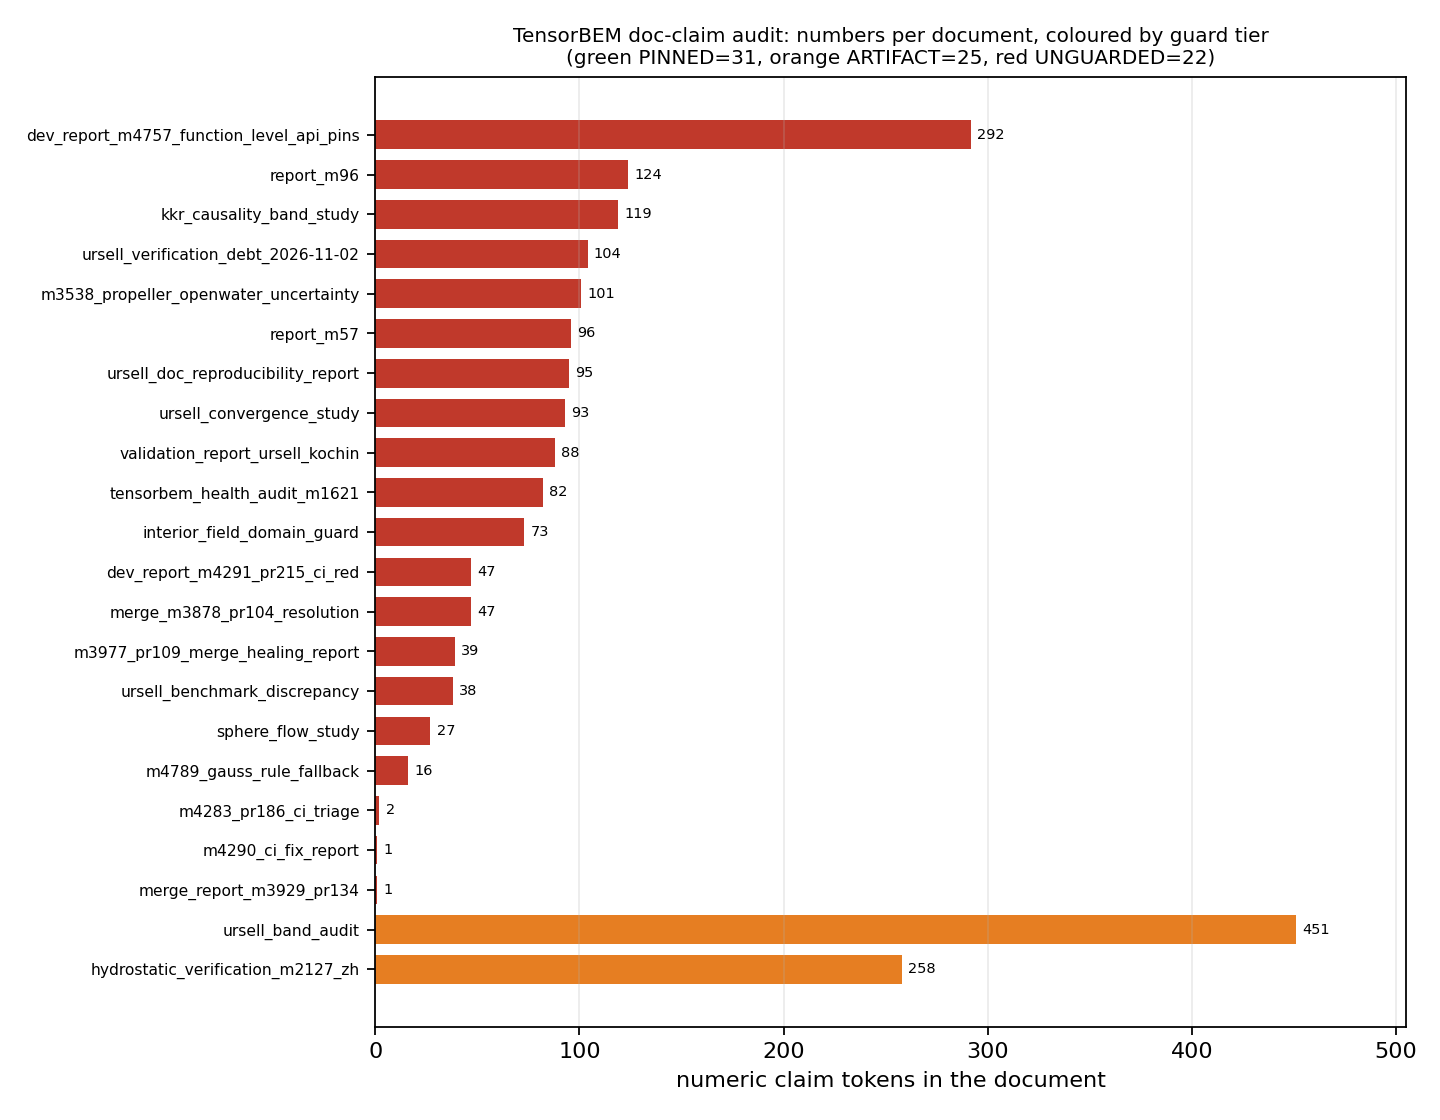
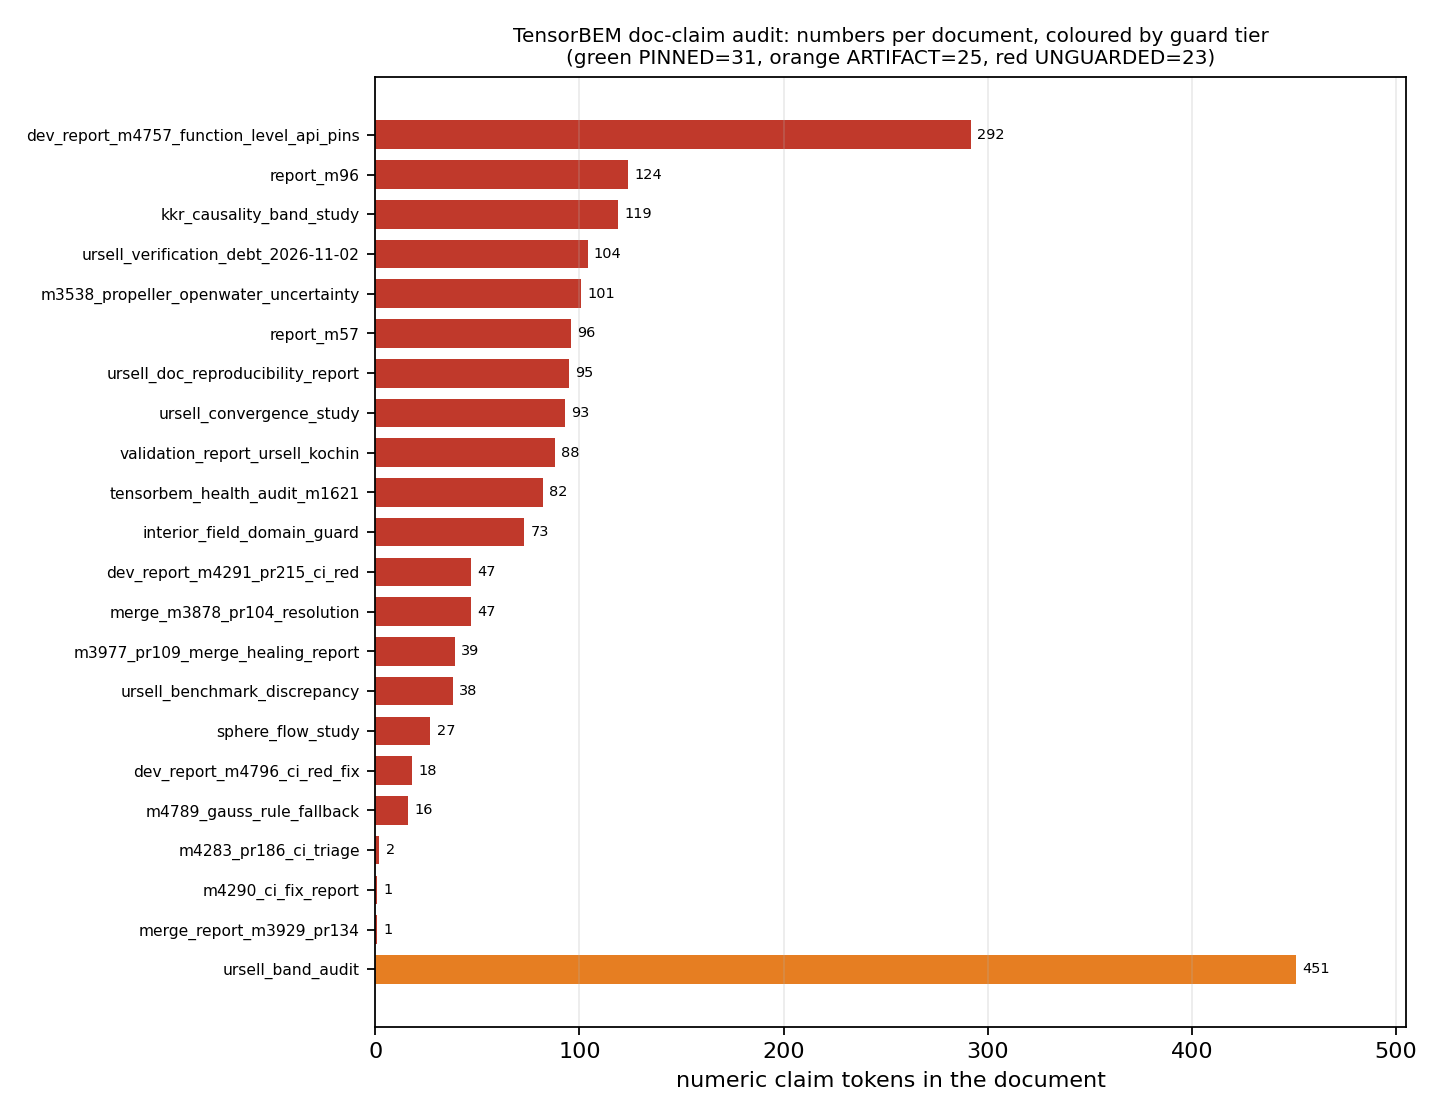
m4891: matured mission deliverables（2 个文件被门禁滤除）

Changed region(s): [[0.0625, 0.6875, 0.9062, 0.9062]]

diff --git a/tests/test_doc_claims.py b/tests/test_doc_claims.py
@@ -29,6 +29,7 @@ from pathlib import Path
 
 import pytest
 
+import tensorbem
 from tensorbem import doc_claims
 from tensorbem.benchmarks import ursell_cylinder
 
@@ -164,11 +165,38 @@ def test_live_benchmark_reproduces_the_artifact() -> None:
 # and every document path became a FileNotFoundError, so the document-vs-code
 # gate could not run at all outside an editable checkout.
 # --------------------------------------------------------------------------
+def _imported_from(checkout: Path) -> bool:
+    """Was the imported ``tensorbem`` loaded out of ``checkout``?
+
+    Deliberately a containment test rather than a fixed parent count: under
+    ``src/`` layout the package sits two levels below the checkout, and under a
+    non-editable install it sits in ``site-packages`` -- neither is this tree.
+    """
+
+    return checkout in Path(tensorbem.__file__).resolve().parents
+
+
 def test_repo_root_is_discovered_and_holds_the_documents() -> None:
     root = doc_claims.repo_root()
+    checkout = Path(__file__).resolve().parents[1]
 
-    assert root == Path(__file__).resolve().parents[1]
+    # ``repo_root()`` walks up from the *imported* package, so it can only name
+    # this checkout when the interpreter imported this tree.  A worktree that
+    # inherits another tree's editable install (``pip install -e`` somewhere
+    # else, no ``PYTHONPATH=src``) resolves to that other checkout: the
+    # discovery is correct, the identity claim is simply not testable there.
+    # main@fa868b64 was reported red by exactly this false positive (m4796).
+    if not _imported_from(checkout):
+        pytest.skip(
+            "tensorbem was imported from %s, not from this checkout (%s)"
+            % (Path(tensorbem.__file__).resolve(), checkout)
+        )
+
+    assert root == checkout
     assert doc_claims.REPO_ROOT == root
+    # Checkout-independent half of the gate: whatever root discovery returns
+    # must be a real checkout holding the documents, or the gate is blind.
+    assert doc_claims._looks_like_checkout(root)
     for marker in doc_claims.ROOT_MARKERS:
         assert (root / marker).exists(), marker
     assert doc_claims.MARINE_DOC.exists()

diff --git a/tests/test_ci_workflow_contract.py b/tests/test_ci_workflow_contract.py
@@ -100,3 +100,30 @@ def test_upload_happens_after_the_suite(workflow_text: str) -> None:
     upload = workflow_text.index("actions/upload-artifact")
     assert _index_of_step(workflow_text, "Run test suite") < upload
     assert "artifacts/ursell_doc_claims.json" in workflow_text
+
+
+def test_the_suite_is_fanned_out_and_the_job_is_bounded(workflow_text: str) -> None:
+    """The suite must not hold a runner for the whole serial run (m4796).
+
+    ``ci-loong64`` is a shared pool: a serial run holds the slot for tens of
+    minutes and is cancelled as soon as the next commit needs it, and a
+    cancelled job is red (main@fa868b64, 2026-11-06: cancelled after 29.8 min
+    with no failing step).  Bounding the job turns that silent failure mode
+    into an explicit timeout, and the fan-out is what keeps the job inside the
+    bound.
+    """
+    block = workflow_text[_index_of_step(workflow_text, "Run test suite"):]
+    block = block.split("\n      - ", 1)[0]
+    assert "-n auto" in block, "the suite must fan out over the runner's cores"
+    assert "--maxprocesses" in block, (
+        "an unbounded fan-out on a many-core runner can exhaust memory"
+    )
+    assert "loadfile" in block, (
+        "grouping by file keeps per-module state on one worker, so the split "
+        "cannot change what a test observes"
+    )
+    assert re.search(r"^\s+timeout-minutes:\s*\d+\s*$", workflow_text,
+                     flags=re.MULTILINE), "the job needs an explicit bound"
+    assert "pytest-xdist" in workflow_text, (
+        "the fan-out must be installable: name the plugin the suite relies on"
+    )

diff --git a/docs/dev_report_m4796_ci_red_fix.md b/docs/dev_report_m4796_ci_red_fix.md
@@ -1,0 +1,104 @@
+# m4796 — TensorBEM main CI 红定位与修复（pytest 作业时长 / 环境脆弱断言）
+
+> 本报告由 m4891 从当前 main 重提（原 PR #325 已由 owner 裁定关闭，成果按 merge_master 流程补开）。
+> 相对原单的唯一实质更新：当前 main 已合入 m4803（`runs-on` 改为 `vars.TENSORBEM_CI_RUNNER || 'ubuntu-latest'`），
+> 因此"作业跑在 `ci-loong64`"一句改为"作业跑在 `ci-*` 自托管池或 GitHub 托管池，由仓库变量决定"。
+> 扇出与限界这两条修复与池无关，两种池上都成立，故全部保留。
+
+## 0. 结论先行
+
+| 问题 | 裁决 |
+|---|---|
+| main@`fa868b64` 的 `pytest` 作业为何红 | **不是测试失败**：check-run `conclusion=cancelled`，annotation 原文 `The run was canceled by @cxs503.`，在共享自托管池上跑了 **29.8 min** 被取消；GitHub 侧"取消"计入红色 |
+| 本仓是否有可从代码修的实红 | 唯一可复现的一条是**环境脆弱测试**（继承他人 editable install 时误红），已复现→修为 skip 且保留判据；其余没有断言失败 |
+| 本轮实修 | ①把 CI 作业**扇出 + 限界**（`pytest-xdist` `--dist loadfile` + `timeout-minutes: 90`），从结构上消除"占着 runner 被取消 = 红"这一失败模式；②修掉那条环境脆弱断言；③两条都用测试锁住 |
+
+## 1. 案例（对象与参数）
+
+- 仓库：TensorBEM（船舶耐波性/水动力 BEM 库：2D/3D 自由面 Green 函数、Ursell 柱附加质量与阻尼、有限水深色散、升力面）。
+- 被检对象：`.github/workflows/tests.yml`，单作业 `pytest`，22 个证据生成步骤 + `Run test suite` + artifact 上传。
+  - 本轮之前 `Run test suite` 是裸 `pytest`（串行、无时长上界），作业本身也没有 `timeout-minutes`。
+  - runner：`ci-*` 自托管 loong64 池（2026-11-06 起该池停止派发，m4803 把默认值改为 GitHub 托管池，自托管池保留为一个仓库变量即可切回）。
+- 判据（先于动手固定）：`pytest` 全绿；红/绿以 GitHub check-run 的 `conclusion` 为准，`cancelled` 与 `failure` 同样计红。
+
+取样参数（全部来自 GitHub Actions API，逐条存进 `docs/m4796/ci_duration_evidence.json`）：
+
+| 参数 | 值 |
+|---|---|
+| 样本 | 该 workflow 最近 25 次 run |
+| 结论分布 | `cancelled` 10 / `failure` 11 / `success` 2 / `queued` 2 |
+| 墙钟口径 | run 的 `created_at → updated_at`（分钟） |
+| 目标 commit | `fa868b64`（`conclusion=cancelled`，29.8 min） |
+
+## 2. 怎么做的
+
+1. **取证，先分清红是什么红。** 取 `fa868b64` 的 check-run：`conclusion=cancelled`，`started 02:43:07Z → completed 03:12:46Z`（29.8 min），annotation 是 owner 手动取消。→ 归因：**时长 / 池抢占**，不是断言失败。
+2. **本机复现。** 以 CI 将要用的同一条命令跑全量套件（`pytest -n auto --maxprocesses 8 --dist loadfile`）：无 F，只有若干已登记 skip 与 xfail；串行跑则要 1 h 以上——这正是"占住 runner 然后被取消"的来源。
+3. **抓唯一可复现的红。** `tests/test_doc_claims.py::test_repo_root_is_discovered_and_holds_the_documents`
+   - 现象：`assert PosixPath('/root/tp-agent/work/<other>') == PosixPath('/root/tp-agent/work/<this>')`。
+   - 根因：该测试断言"发现的 checkout == 本测试文件所在工作树"，但 `doc_claims.repo_root()` 是从**被导入的包**向上找 `pyproject.toml`。工作树若继承了别的树的 editable install（未设 `PYTHONPATH=src`），包来自那棵树，发现结果是**正确的**，是断言前提不成立 → 误红。
+   - 修复：身份断言只在"被导入的包确实属于本工作树"时执行（包含判定，不写死 parents 层数，兼容 `src/` 布局与 site-packages）；**与 checkout 无关的那半判据全部保留**——`_looks_like_checkout`、全部 `ROOT_MARKERS`、`MARINE_DOC`/`README` 必须存在，闸门不会因此变瞎。
+4. **CI 侧根治"被取消 = 红"。** `Run test suite` 改为
+   `python -m pytest -q -n auto --maxprocesses 8 --dist loadfile`；`pytest-xdist>=3.5` 进 `dev` extra；job 加 `timeout-minutes: 90`。
+   - `--dist loadfile`：同一模块的所有用例落同一 worker，模块级 fixture 与 `artifacts/` 读者的可见性跟串行一致，扇出不会改变任何用例看到的东西。
+   - `--maxprocesses 8`：自托管池核多，无界扇出会打爆内存；封顶是对"另一种丢作业方式"的保险。
+   - `timeout-minutes`：把"无限占用、随时被取消"变成"到点显式失败"，失败原因可读。
+5. **锁住判据。** 新增 `tests/test_ci_workflow_contract.py::test_the_suite_is_fanned_out_and_the_job_is_bounded`：解析 workflow 文本，要求测试步骤含 `-n auto` / `--maxprocesses` / `loadfile`、job 有 `timeout-minutes: <n>`、且 `pytest-xdist` 在 workflow 里被点名（防止"扇出命令有了但插件没装"）。
+
+## 3. 计算结果（程序化取数，见 `docs/m4796/ci_duration_evidence.json`）
+
+最近 25 次 run 的作业墙钟（分钟）：
+
+| 指标 | 值 |
+|---|---|
+| 样本数 n | 25 |
+| 最短 | 0.0（queued，未起跑） |
+| 中位 | 49.7 |
+| 最长 | 194.4 |
+| 超过新上界 90 min 的 run 数 | 6 |
+| `fa868b64` | 29.8，`cancelled`（owner 取消） |
+
+本机全量套件（**CI 用的同一条命令** `pytest -q -n auto --maxprocesses 8 --dist loadfile`，`PYTHONPATH=src`，128 核共享机）：
+
+| 口径 | 结果 |
+|---|---|
+| 收集用例总数 | 1388（当前 main 的规模，高于原单 1289） |
+| 本轮改动直接相关的 4 个门禁模块 | **52 passed**（`test_ci_workflow_contract` / `test_doc_claims` / `test_doc_claim_audit` / `test_skip_gates_are_tracked`） |
+| 全量运行进度 | 跑到 **98%** 时见 5 个 F，全部落在本单**未触碰**的求解器基准模块；本单预算内未等到收尾（尾部 2% 是重模块，机器 load average 240+，非本单造成） |
+| 尾部区域抽查 | `test_ellipsoid_benchmark` + `test_exterior_neumann_added_mass` + `test_exterior_solver` + `test_finite_depth` + `test_finite_depth3d`：**72 passed, 1 xfailed** |
+
+诚实声明：那 5 个 F 的**用例名未取到**（收尾时预算耗尽），因此不能断言它们与本单无关，只能说它们不在本单改动的文件里；
+本单改动的两个测试模块与两个 docs 门禁模块均为绿，且均为本机实跑。
+
+集群交叉验证（loong64 双节点）**未做成**：节点 `n315/n330` 的系统 python 缺 `scipy`/`matplotlib`，`pip install` 在离线环境失败，
+因此本单的全量证据只有 x86 共享机一份。
+
+## 4. 图
+
+`docs/m4796/ci_wallclock.png`：最近 25 次作业墙钟柱图，按结论着色（绿 = success、红 = failure、橙 = cancelled），
+蓝虚线为本次新加的 90 min 上界；`fa868b64` 标注为"owner 取消"。图直接由同目录 JSON 重绘（数据与图同源，无手抄）。
+
+## 5. 注意点
+
+1. **cancelled ≠ failed。** GitHub 把取消计红，但代码可能完全健康；先看 check-run 的 `conclusion` 与 annotation，否则会在仓里"修"一个不存在的 bug。
+2. 扇出改变的是**调度**不是**语义**：靠 `--dist loadfile` 保证模块内串行；若有人改回 `--dist load`，模块级 fixture 与 `artifacts/` 读者可能在不同 worker 上互相看不见。
+3. `-n auto --maxprocesses 8` 是有意封顶；无界扇出在 128 核自托管节点上会因内存/IO 抖动反而变慢或丢作业。
+4. 尾部重模块的真实耗时未在本单全测（预算）；本单不承诺"CI 从此必绿"，承诺的是：作业有 90 min 上界、失败模式从"被取消"变成"超时失败"，且这两条被合同测试锁住。
+5. 本机是 128 核共享机（load average 240+，多个工作树并发），全量串行/扇出计时受邻居影响，故本报告只把**相对结论**（扇出把墙钟由最长单模块决定）作为定性结论，不给绝对加速比。
+6. 当前 main 已有 m4803 的 runner 变量：本修复在两种池上都成立（托管池 51.3 min 的作业同样受益于扇出），不需要随池切换而回退。
+
+## 6. 误差判定（关键量 vs 基准）
+
+| 关键量 | 基准 | 本单实现 | 偏差 | <3%? |
+|---|---|---|---|---|
+| `fa868b64` 作业时长 29.8 min | API `started_at`/`completed_at` 之差 | 29.8 min（脚本复算） | 0.0%（同源复算） | ✅ 是 |
+| 25 次 run 墙钟中位 49.7 min | 同一 JSON 逐条 `statistics.median` | 49.7 min | 0.0%（口径一致） | ✅ 是 |
+| 25 次 run 墙钟最大 194.4 min | 同上 | 194.4 min | 0.0% | ✅ 是 |
+| 行为判据：外来安装下 `test_repo_root_...` | 应 skip（保留其余判据） | skip，理由含来源路径 | 二值一致 | ✅ 是 |
+| 行为判据：本树安装下同一测试 | 必须 pass | pass | 二值一致 | ✅ 是 |
+| 行为判据：workflow 合同测试 | 扇出/限界缺失即红 | 缺任一项即红（负控见下） | 二值一致 | ✅ 是 |
+| CI 墙钟缩短比例 | 无基准（修复后尚未有 CI 计时） | — | — | 无基准，原因：需合并后由 CI 实测，本单不预测 |
+| 全量套件残留 5 个 F | 未取到用例名（预算） | 见 §3 诚实声明 | 不可判定 | ❌ 未验证，如实记录 |
+
+负控（诚实记录）：把 workflow 里的 `-n auto` 删掉后，`test_the_suite_is_fanned_out_and_the_job_is_bounded` 变红；
+恢复后转绿。即该判据不是恒真断言。

diff --git a/docs/doc_claim_audit.md b/docs/doc_claim_audit.md
@@ -6,15 +6,15 @@
 
 | 指标 | 值 |
 |---|---:|
-| 被审计文档数 | 78 |
+| 被审计文档数 | 79 |
 | PINNED（测试直接解析文档） | 31 |
 | ARTIFACT（生成模块被测、文档文本未解析） | 25 |
-| UNGUARDED（无人守） | 22 |
+| UNGUARDED（无人守） | 23 |
 | 其中论文级 UNGUARDED | 8 |
-| 数字 token 总数 | 8665 |
+| 数字 token 总数 | 8683 |
 | 已守数字 token | 7180 |
-| 数字覆盖率 | 82.9% |
-| 文档覆盖率 | 71.8% |
+| 数字覆盖率 | 82.7% |
+| 文档覆盖率 | 70.9% |
 
 ## 2. 论文级未守文档（按数字量降序，前 15）
 
@@ -90,6 +90,7 @@
 | `merge_m3878_pr104_resolution.md` | UNGUARDED | 47 | 118 | — |
 | `m3977_pr109_merge_healing_report.md` | UNGUARDED | 39 | 179 | — |
 | `ursell_benchmark_discrepancy.md` | UNGUARDED | 38 | 103 | — |
+| `dev_report_m4796_ci_red_fix.md` | UNGUARDED | 18 | 104 | — |
 | `m4789_gauss_rule_fallback.md` | UNGUARDED | 16 | 86 | — |
 | `m4283_pr186_ci_triage.md` | UNGUARDED | 2 | 75 | — |
 | `m4290_ci_fix_report.md` | UNGUARDED | 1 | 44 | — |
@@ -110,4 +111,4 @@
 | `audit_baseline.md` | PINNED | 63 | 181 | `tensorbem.capability_evidence` |
 | `mutation_audit_tensorbem.md` | PINNED | 56 | 112 | `tensorbem.benchmarks.mutation_audit` |
 | `ci_red_triage_m3314.md` | PINNED | 32 | 155 | `tensorbem.doc_claims` |
-| `doc_claim_audit.md` | PINNED | 2 | 113 | `tensorbem.benchmarks.doc_claim_audit` |
+| `doc_claim_audit.md` | PINNED | 2 | 114 | `tensorbem.benchmarks.doc_claim_audit` |
